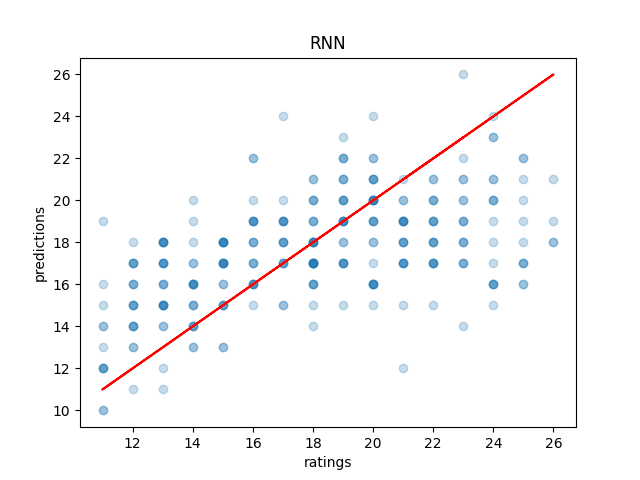
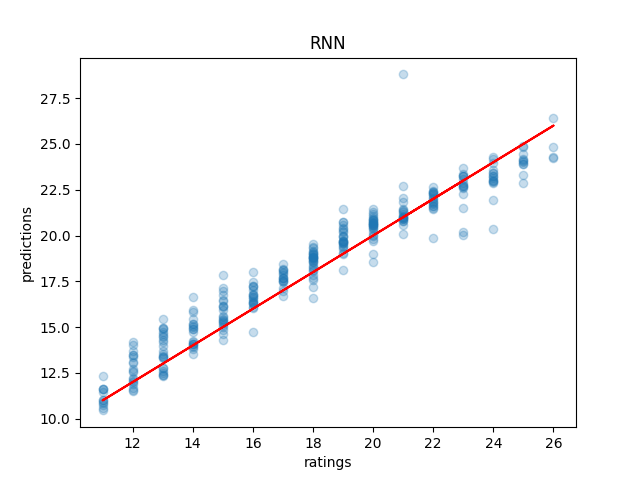
got rnn working

diff --git a/models.py b/models.py
@@ -7,37 +7,28 @@ import torch
 from torch import nn
 
 
-# It learns but overfits and refuses to generalize
-# At least get this to learn a linear classifier
-# https://pytorch.org/tutorials/beginner/nlp/sequence_models_tutorial.html
-# https://cnvrg.io/pytorch-lstm/
-# https://towardsdatascience.com/pytorch-lstms-for-time-series-data-cd16190929d7
 class RNN(nn.Module):
-    def __init__(self, hidden=128, inpsize=400):
+    def __init__(self, hidden=128):
         super(RNN, self).__init__()
-        self.l1 = nn.LSTM(input_size=inpsize, hidden_size=hidden)
-        #self.dropout = nn.Dropout()
-        self.out = nn.Linear(hidden, 1)
-        self.h0 = torch.zeros(1, 1, hidden).cuda()
-        self.c0 = torch.zeros(1, 1, hidden).cuda()
+        self.hiddensize = hidden
+        self.to_hidden = nn.Linear(1+hidden, hidden)
+        self.out = nn.Linear(1+hidden, 1)
 
-    # I think I am doing this wrong, init_hidden is a bit confusing
-    def forward(self, x):
+    def forward(self, x, hidden):
         x = x.unsqueeze(0)
         x = x.to("cuda")
-        r_out, hidden = self.l1(x, (self.h0, self.c0))
-        self.h0, self.c0 = hidden
-        #r_out = self.dropout(r_out) # regularization attempt
-        out = self.out(r_out)
+
+        conc = torch.cat((x, hidden), 1)
+        hidden = self.to_hidden(conc)
+        out = self.out(conc)
         
-        return out
+        return out, hidden
 
     def init_hidden(self):
-        self.h0 = torch.zeros(self.h0.size()).cuda()
-        self.c0 = torch.zeros(self.c0.size()).cuda()
+        return torch.zeros(1, self.hiddensize).cuda()
 
 class RNNClassifier():
-    def __init__(self, learning_rate=3e-4, epochs=20):
+    def __init__(self, learning_rate=3e-4, epochs=100):
         self.net = RNN()
         self.epochs = epochs
         self.criterion = nn.MSELoss()
@@ -49,24 +40,45 @@ class RNNClassifier():
         X = self.process_input([X])
         x = X[0]
         x = x.to("cuda")
-        x = x.unsqueeze(0)
-        pred = self.net(x)
-        return round(pred.detach().cpu().numpy()[0][0][0])
+        hidden = self.net.init_hidden()        
+
+        for i in range(x.size()[0]):
+            block = x[i].unsqueeze(0)
+            out, hidden = self.net(block, hidden)
+
+        return out.detach().cpu().numpy()[0][0]
 
     def process_input(self, x, labels=False):
         if labels:
             labels = [torch.FloatTensor([int(a)]) for a in x]
             return labels
         else:
-            breakdowns = [[*a[0], int(a[1])] for a in x]
-            #pad with zeros
-            max_size = 400
-            breakdowns = [[*a, *[0 for _ in range(max_size-len(a))]] for a in breakdowns]
-            breakdowns = np.array(breakdowns).astype(float)
+            breakdowns = [np.array([*a[0], int(a[1])]).astype(float) for a in x]
+            
+            #pad with zeros, unneeded usually
+            #max_size = 400
+            #breakdowns = [[*a, *[0 for _ in range(max_size-len(a))]] for a in breakdowns]
+            #breakdowns = np.array(breakdowns).astype(float)
+
             return [torch.FloatTensor(a) for a in breakdowns]
 
     def set_eval(self):
         self.net.eval()
+
+    def learn(self, inp_x, inp_y):
+        hidden = self.net.init_hidden()
+        self.net.zero_grad()
+        criterion = self.criterion
+
+        for i in range(inp_x.size()[0]):
+            block = inp_x[i].unsqueeze(0)
+            out, hidden = self.net(block, hidden)
+
+        loss = criterion(out[0][0], inp_y[0])
+        loss.backward()
+        self.optim.step()
+
+        return out, loss.item()
 
     def fit(self, train_X, train_Y):
         train_X = self.process_input(train_X) 
@@ -75,26 +87,18 @@ class RNNClassifier():
 
         for epoch in range(self.epochs):
             current_loss = 0
-            self.net.init_hidden()
+
             for i, (inp, lab) in enumerate(zip(train_X, train_Y)):
+                if i % 500 == 0:
+                    print(f"epoch {epoch} {i}/{len(train_X)}")
                 inp = inp.to("cuda")
                 lab = lab.to("cuda")
 
-                self.net.zero_grad()
-                
-                # Batch 1
-                inp = inp.unsqueeze(0)
-                (self.net.h0, self.net.c0) = tuple([each.data for each in (self.net.h0, self.net.c0)])
+                out, loss = self.learn(inp, lab)
+                current_loss += loss
 
-                out = self.net(inp)
-                loss = criterion(out[0][0], lab)
-                loss.backward()
-                self.optim.step()
-                current_loss += loss.item()
-                
-            print(f"Epoch {epoch}/{self.epochs} - Loss: {current_loss}")
-
-        return out, loss.item
+            print(f"Epoch {epoch+1}/{self.epochs} - Loss: {current_loss}")
+        
         
 
 
